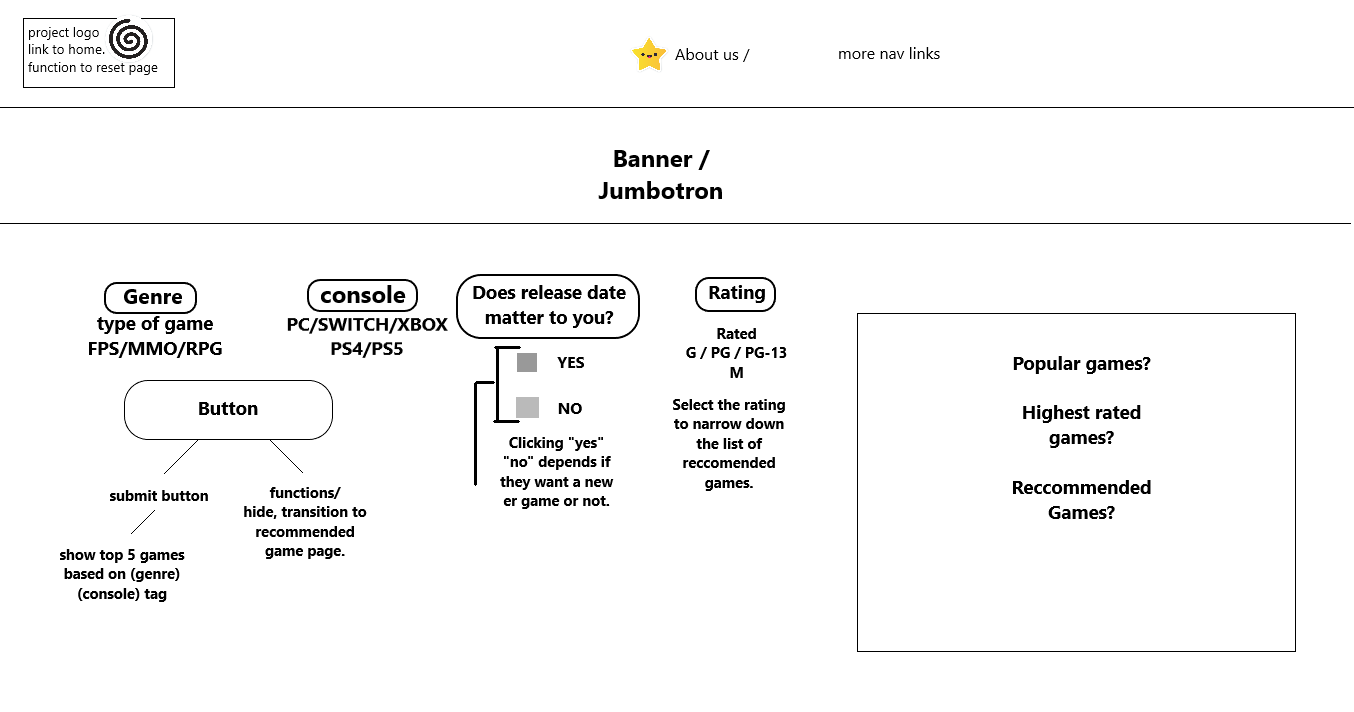
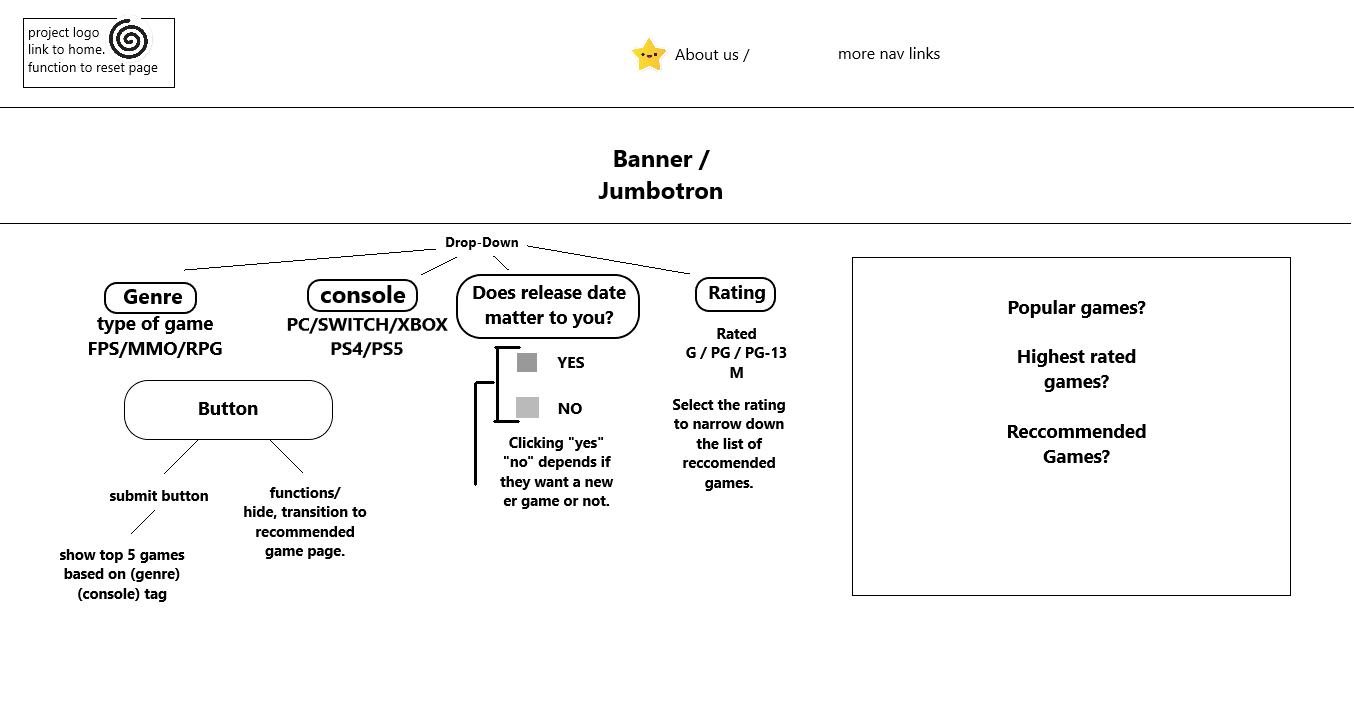
built temp HTML and added some javascript

diff --git a/index.html b/index.html
@@ -1,12 +1,92 @@
 <!DOCTYPE html>
 <html lang="en">
-<head>
-    <meta charset="UTF-8">
-    <meta http-equiv="X-UA-Compatible" content="IE=edge">
-    <meta name="viewport" content="width=device-width, initial-scale=1.0">
-    <title>Document</title>
-</head>
-<body>
-    
-</body>
+  <head>
+    <meta charset="UTF-8" />
+    <meta http-equiv="X-UA-Compatible" content="IE=edge" />
+    <meta name="viewport" content="width=device-width, initial-scale=1.0" />
+    <!-- CSS Materialize -->
+    <link rel="stylesheet" href="./assets/css/style.css" />
+    <title>Game Selector!</title>
+  </head>
+
+  <body>
+    <!-- Header -->
+    <header>
+      <nav id="" class="">
+        <!-- nav bar  -->
+        <ul>
+          <li><a href="#">About Us</a></li>
+          <li><a href="#">-----</a></li>
+          <li><a href="#">-----</a></li>
+          <li><a href="#">-----</a></li>
+        </ul>
+      </nav>
+    </header>
+
+    <!-- Jumbotron -->
+    <section class="hero">
+      <div class="">
+        <!-- Jumbotron stuff-->
+      </div>
+    </section>
+
+    <!-- drop down container -->
+    <div class="container hide">
+      <!-- class hide is to display : hide; to hide the what is within container. -->
+      <div id="tabs" class="drop-down">
+        <div id="drop-down" class="genreStyles">
+          <!-- Genre  -->
+          <h1 class="title">Genre</h1>
+          <select name="genre-container" id="selectGenre">
+            <option value="rpg-option">RPG</option>
+            <option value="strategy-option">Strategy</option>
+            <option value="shooters-option">Shooters</option>
+            <option value="action-option">Action</option>
+            <option value="moba-option">MOBA</option>
+            <option value="mmmorpg-option">MMORPG</option>
+            <option value="sandbox-option">Sandbox</option>
+            <option value="puzzle-option">Puzzlers</option>
+            <option value="rts-option">RTS</option>
+            <option value="survival-option">Survival</option>
+            <option value="platform-option">Platformer</option>
+            <option value="sport-option">Sports</option>
+          </select>
+
+          <!-- Console -->
+          <h1 class="title hide">Console</h1>
+          <select name="console-container" id="selectConsole" class="consoleStyles" >
+            <option value="pc-option">PC</option>
+            <option value="ps4-option">PS4</option>
+            <option value="ps5-option">PS5</option>
+            <option value="switch-option">Switch</option>
+            <option value="xbox-option">Xbox</option>
+          </select>
+
+          <!-- Does release date matter -->
+          <div>
+            <h1 class="title">Does Release Date matter to you?</h1>
+            <form id="releaseCheck" action="">
+              <input name="checkYes" type="checkbox" id="checkbox1" value="yes" />
+              <label for="checkYes">Yes</label><br />
+              <input name="checkNo" type="checkbox" id="checkbox2" value="no" />
+              <label for="checkNo">No</label><br />
+            </form>
+          </div>
+
+          <!-- Ratings -->
+          <h1 class="title">Rating</h1>
+          <select name="ratings" id="selectRatings" class="ratingStyles">
+            <option value="ec-option">EC-Early Childhood</option>
+            <option value="e-option">E-Everyone</option>
+            <option value="t-option">T-Teen</option>
+            <option value="m-option">M-mature</option>
+          </select>
+
+          <!-- Button for submitting -->
+          <button id="submitButton" class="submitButton hide">Get Game!</button>
+        </div>
+      </div>
+    </div>
+    <script src="./assets/js/script.js"></script>
+  </body>
 </html>
